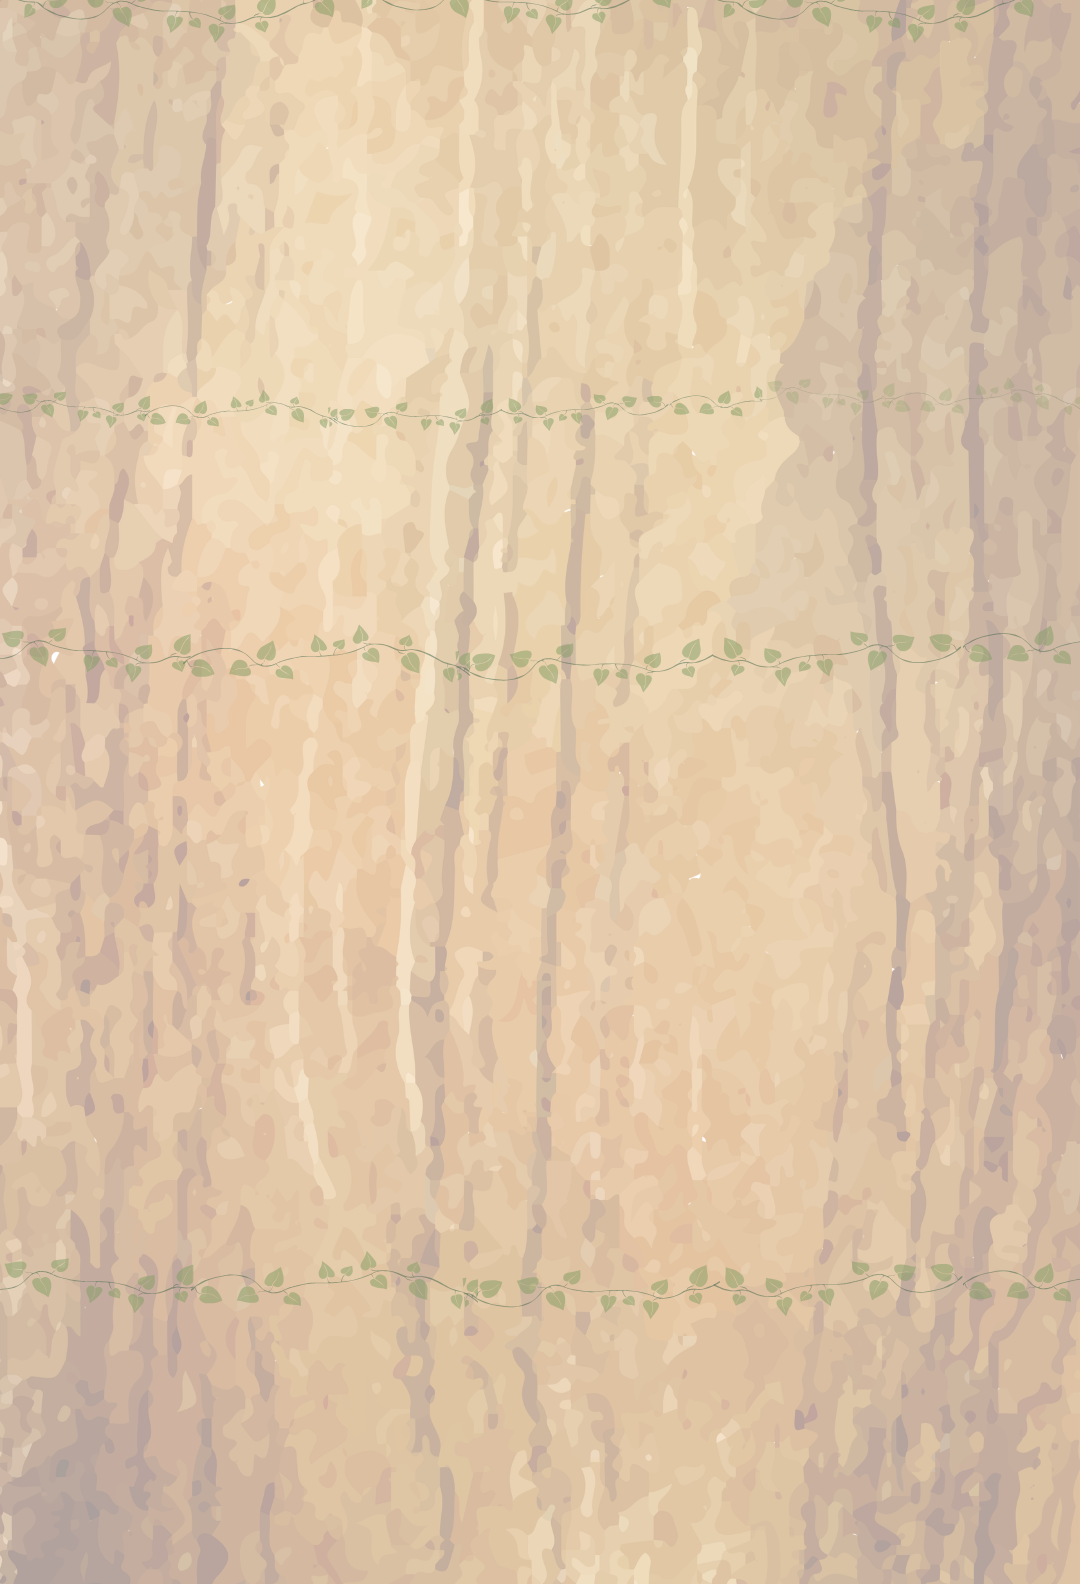
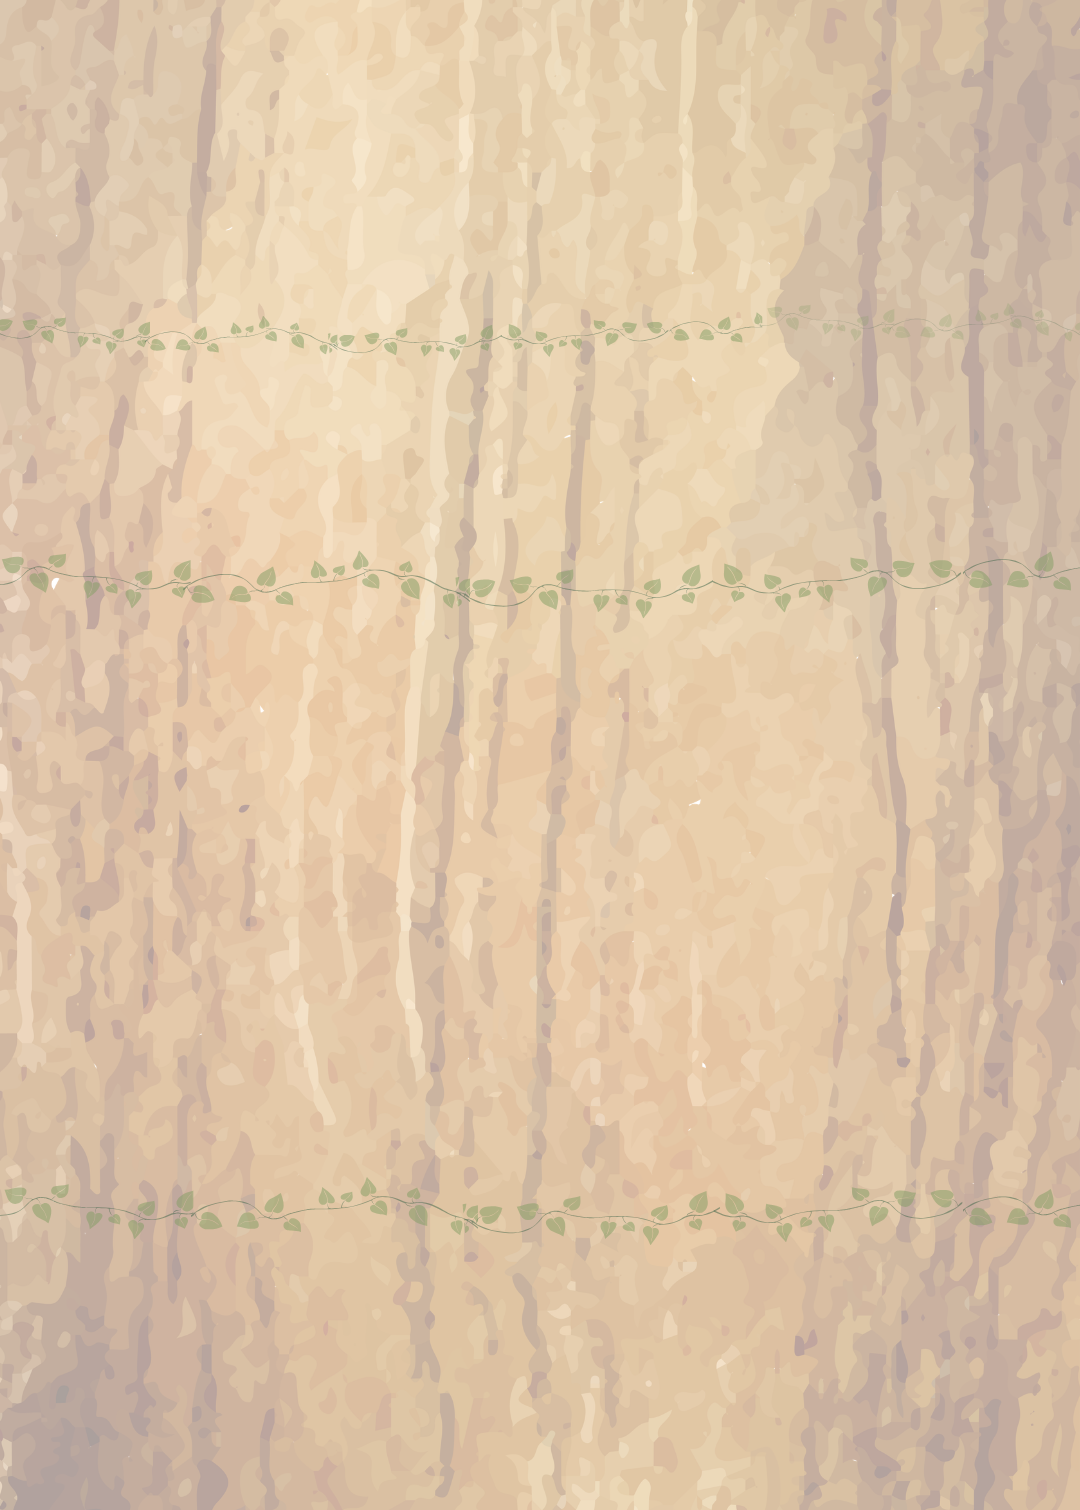
Add files via upload

diff --git a/index.html b/index.html
@@ -12,7 +12,7 @@
      ・アイコン4種=左寄せ・巣箱と重ならない逃げ幅
      ・ティッカー=素材版（赤札＋ミント帯）
      ・本文背景=⑮の蔦入り樹皮（bark-full.png）
-     ・全画像に ?v=2 を付与（キャッシュ強制更新）
+     ・全画像に ?v=4 を付与（キャッシュ強制更新）
      【設置】assetsフォルダごと同じ階層に配置。従来サイトは app.html。
      【玄関を再表示】 https://bousai0111.info/#gate
      ============================================================ -->
@@ -45,13 +45,13 @@ body{
   margin:0;padding:0;color:var(--ink);
   font-family:'Zen Maru Gothic',"Hiragino Maru Gothic ProN","Yu Gothic",sans-serif;
   font-weight:500;line-height:2.0;
-  background:#e9dcc4 url('assets/bark-full.png?v=2') top center / 100% auto repeat-y;
+  background:#e9dcc4 url('assets/bark2.png?v=4') top center / 100% auto repeat-y;
 }
 img{max-width:100%;height:auto;display:block;}
 
 /* ===== ヘッダー（森＋看板＋LIVE＋巣箱／元サイト相当のコンパクト高） ===== */
 header{
-  background:url('assets/forest.png?v=2') top center / cover no-repeat;
+  background:url('assets/forest.png?v=4') top center / cover no-repeat;
   padding:0 0 3px;
   position:relative;
   margin-top:-2px;
@@ -70,7 +70,7 @@ header{
   margin-top:8px;margin-left:auto;
 }
 .live-wrap time{
-  position:absolute;left:14%;right:14%;top:50%;bottom:9%;
+  position:absolute;left:14%;right:14%;top:54%;bottom:10%;
   display:flex;align-items:center;justify-content:center;
   background:transparent;
   font-weight:900;font-size:clamp(11px,1.5vw,14px);
@@ -100,7 +100,7 @@ nav.doors img{
 /* ===== 最新情報ティッカー（素材版） ===== */
 .ticker{
   display:flex;align-items:stretch;height:40px;
-  background:url('assets/ticker-band.png?v=2') repeat-x center / auto 100%;
+  background:url('assets/ticker-band.png?v=4') repeat-x center / auto 100%;
 }
 .ticker .tag{flex:0 0 auto;height:100%;}
 .ticker .tag img{height:100%;width:auto;display:block;}
@@ -116,7 +116,8 @@ nav.doors img{
 
 /* ===== 本文 ===== */
 .wrap{max-width:720px;margin:0 auto;padding:6px 16px 40px;}
-.sign-h{margin:30px auto 14px;width:min(92%,560px);filter:drop-shadow(2px 3px 2px rgba(40,22,8,.35));}
+.vine-img{display:block;width:min(100%,900px);margin:30px auto -14px;}
+.sign-h{margin:10px auto 14px;width:min(92%,560px);filter:drop-shadow(2px 3px 2px rgba(40,22,8,.35));}
 .sign-h.small{width:min(60%,300px);}
 section{font-size:14.5px;}
 section p{margin:0 0 1em;text-indent:1em;}
@@ -140,24 +141,24 @@ footer .owner{font-weight:900;font-size:14.5px;margin-top:4px;}
 <header>
  <div class="head-inner">
   <div class="head-top">
-    <div class="title"><img src="assets/title.png?v=2" alt="Colette防災情報センター"></div>
+    <div class="title"><img src="assets/title.png?v=4" alt="Colette防災情報センター"></div>
     <div class="live-wrap">
-      <img src="assets/live.png?v=2" alt="LIVE">
+      <img src="assets/live.png?v=4" alt="LIVE">
       <time id="clock">--:--:--</time>
     </div>
   </div>
-  <img class="house" src="assets/house.png?v=2" alt="Disaster Risk Reduction Center Colette">
+  <img class="house" src="assets/house.png?v=4" alt="Disaster Risk Reduction Center Colette">
   <nav class="doors" aria-label="各コーナーへの入口">
-    <a href="app.html"><img src="assets/room.png?v=2" alt="監視ルーム（メイン画面へ入る）"></a>
-    <a href="Manual.html"><img src="assets/manual.png?v=2" alt="緊急対応マニュアル"></a>
-    <a href="app.html"><img src="assets/sos.png?v=2" alt="SOS発信機"></a>
-    <a href="https://mkms0822-ops.github.io/jishinhigaisouti/"><img src="assets/higai.png?v=2" alt="地震被害想定ツール"></a>
+    <a href="app.html"><img src="assets/room.png?v=4" alt="監視ルーム（メイン画面へ入る）"></a>
+    <a href="Manual.html"><img src="assets/manual.png?v=4" alt="緊急対応マニュアル"></a>
+    <a href="app.html"><img src="assets/sos.png?v=4" alt="SOS発信機"></a>
+    <a href="https://mkms0822-ops.github.io/jishinhigaisouti/"><img src="assets/higai.png?v=4" alt="地震被害想定ツール"></a>
   </nav>
  </div>
 </header>
 
 <div class="ticker" id="ticker">
-  <span class="tag"><img src="assets/ticker-tag.png?v=2" alt="最新情報"></span>
+  <span class="tag"><img src="assets/ticker-tag.png?v=4" alt="最新情報"></span>
   <span class="belt"><span id="tickerText">Colette防災情報センターへようこそ。地震・気象・熱中症情報をリアルタイムでお届けしています。</span></span>
 </div>
 
@@ -170,7 +171,8 @@ footer .owner{font-weight:900;font-size:14.5px;margin-top:4px;}
   <p class="enter-note">🏡 上の「監視ルーム」をタップするとメイン画面に入れます</p>
 
   <main>
-    <img class="sign-h" src="assets/h-yurai.png?v=2" alt="Coletteの名前の由来">
+    <img class="vine-img" src="assets/vine1.png?v=4" alt="" role="presentation">
+    <img class="sign-h" src="assets/h-yurai.png?v=4" alt="Coletteの名前の由来">
     <section>
       <p>我が家には猫が1匹います。3歳の女の子です。見た目はロシアンブルー。保護猫としてお迎えしました。実は、この子の名前がコレットちゃんといいます。</p>
       <p>保護主さんが、お洒落な雰囲気とインスピレーションから名付けたといいます。洋酒の名前としても有名ですよね。</p>
@@ -189,10 +191,11 @@ footer .owner{font-weight:900;font-size:14.5px;margin-top:4px;}
       </ul>
     </section>
 
-    <img class="sign-h" src="assets/h-fukurou.png?v=2" alt="ロゴマークのフクロウ">
+    <img class="vine-img" src="assets/vine2.png?v=4" alt="" role="presentation">
+    <img class="sign-h" src="assets/h-fukurou.png?v=4" alt="ロゴマークのフクロウ">
     <section>
       <figure class="cat-figure" style="margin-top:0;">
-        <img src="assets/cat.png?v=2" alt="コレットちゃん（ロシアンブルーに似た灰色の保護猫）">
+        <img src="assets/cat.png?v=4" alt="コレットちゃん（ロシアンブルーに似た灰色の保護猫）">
       </figure>
       <p>あらゆる動物の中で、唯一賢者として位置づけられているのがフクロウです。</p>
       <p>西洋では、フクロウは古代ギリシャ神話から「知恵の象徴」とされてきました。知恵、工芸、戦略を司る女神アテナ（ローマ神話ではミネルヴァ）の使いがフクロウであったためです。フクロウの大きく見開いた目は、真実を見抜き、暗闇を見通す「知恵の目」と解釈されました。</p>
@@ -205,7 +208,8 @@ footer .owner{font-weight:900;font-size:14.5px;margin-top:4px;}
       <p>今回のロゴマークとしてフクロウを採用した理由のひとつでもある私の思い出です。</p>
     </section>
 
-    <img class="sign-h small" src="assets/h-saigo.png?v=2" alt="最後に">
+    <img class="vine-img" src="assets/vine3.png?v=4" alt="" role="presentation">
+    <img class="sign-h small" src="assets/h-saigo.png?v=4" alt="最後に">
     <section>
       <p>コレットちゃんや森の賢者フクロウのように、暗闇でもあらゆるものが見通すことができる「監視と真実の目」と防災知識を養うべく、日々努力を惜しまず、精進してまいります。</p>
       <p>リニューアルスタートしたColette防災情報センターをどうぞこれからも宜しくお願いいたします。</p>
@@ -213,7 +217,7 @@ footer .owner{font-weight:900;font-size:14.5px;margin-top:4px;}
   </main>
 
   <footer>
-    <img class="ring" src="assets/ring.png?v=2" alt="Colette防災情報センターのフクロウロゴ">
+    <img class="ring" src="assets/ring.png?v=4" alt="Colette防災情報センターのフクロウロゴ">
     <div>Disaster Risk Reduction Center</div>
     <div class="owner">運営責任者　古谷　浩二</div>
     <p style="margin-top:12px;"><a href="app.html" style="color:#2f7d32;font-weight:900;">🏡 監視ルームに入る</a></p>
